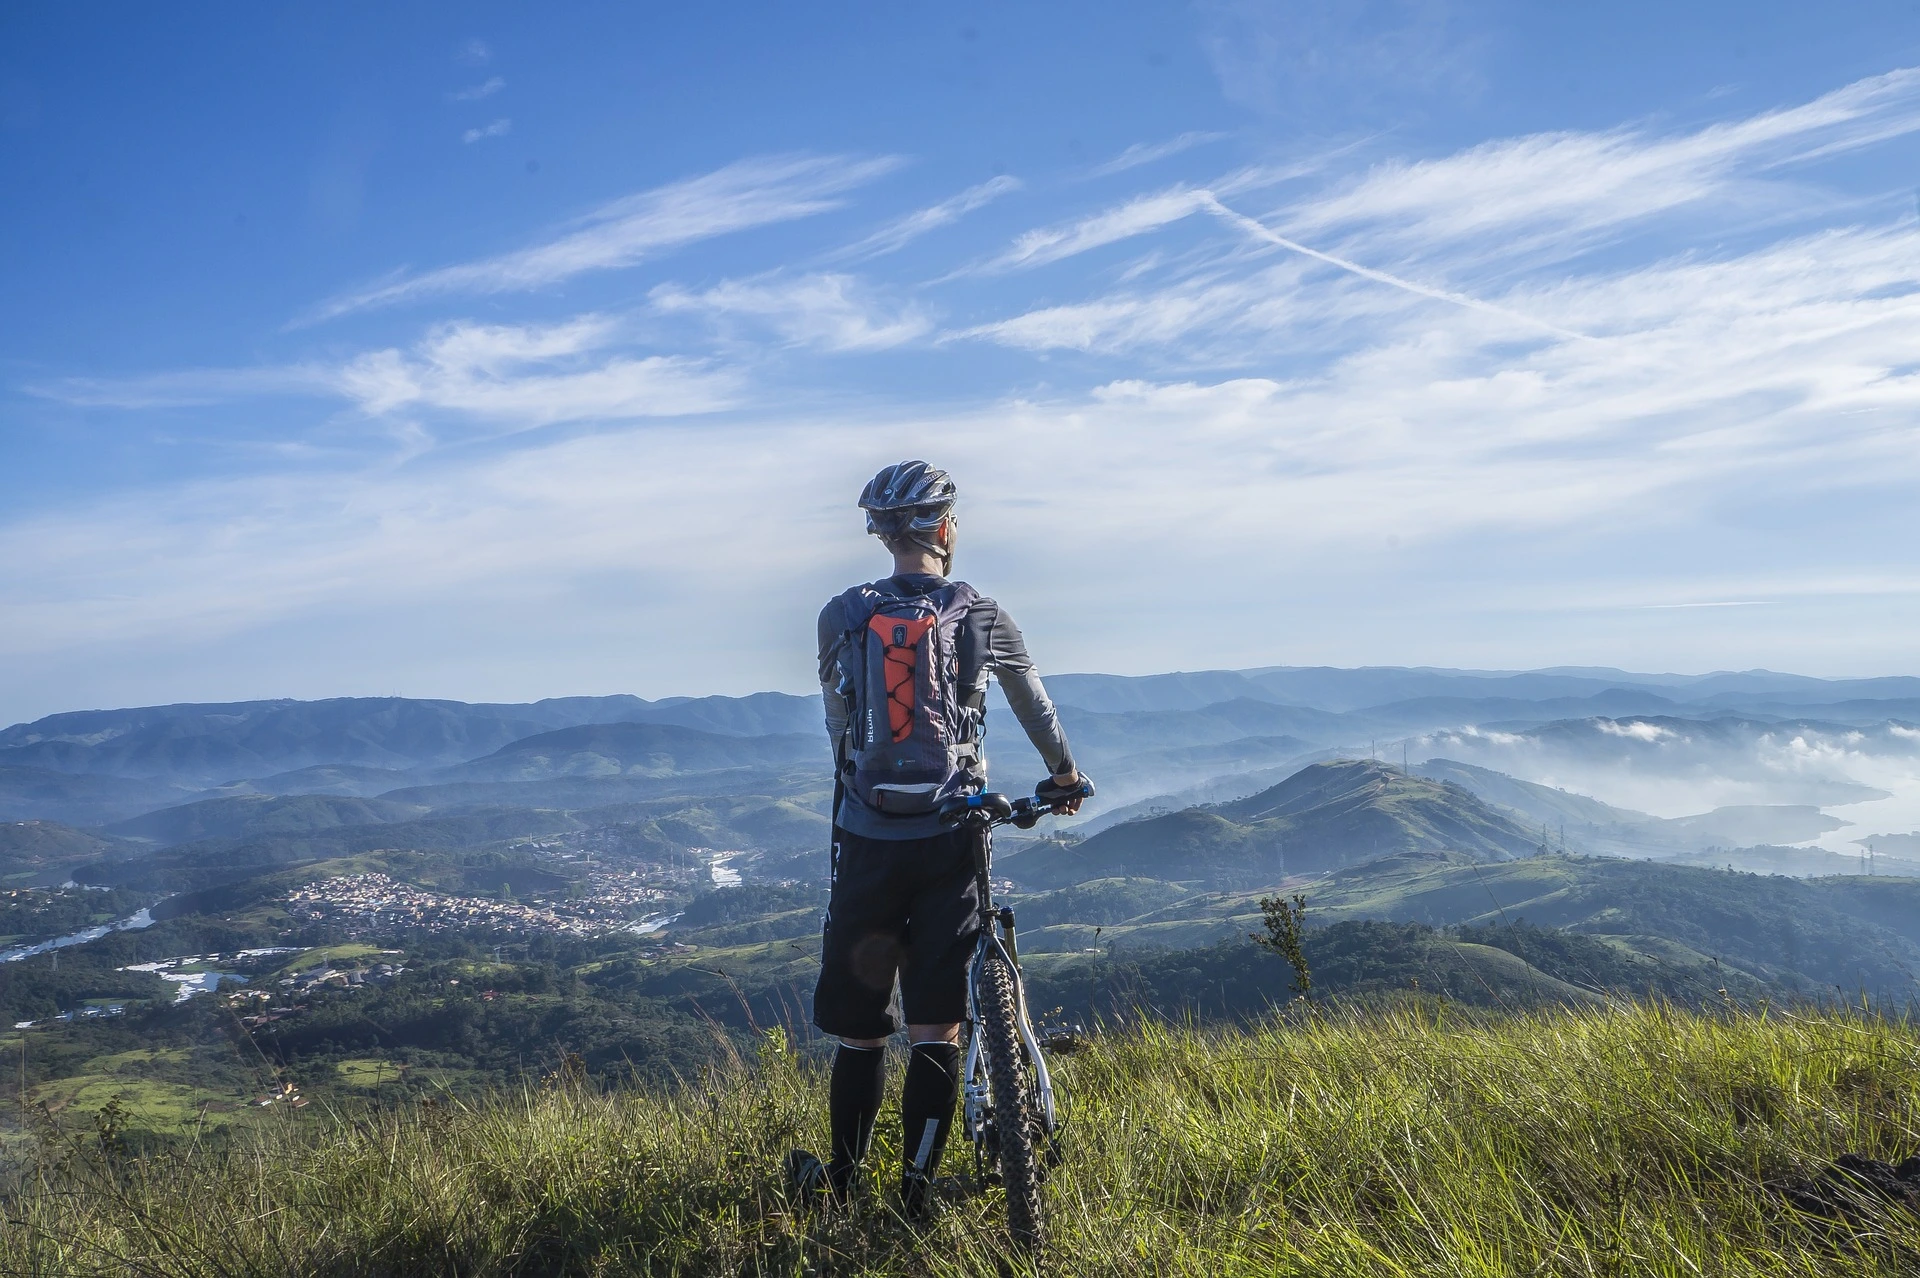
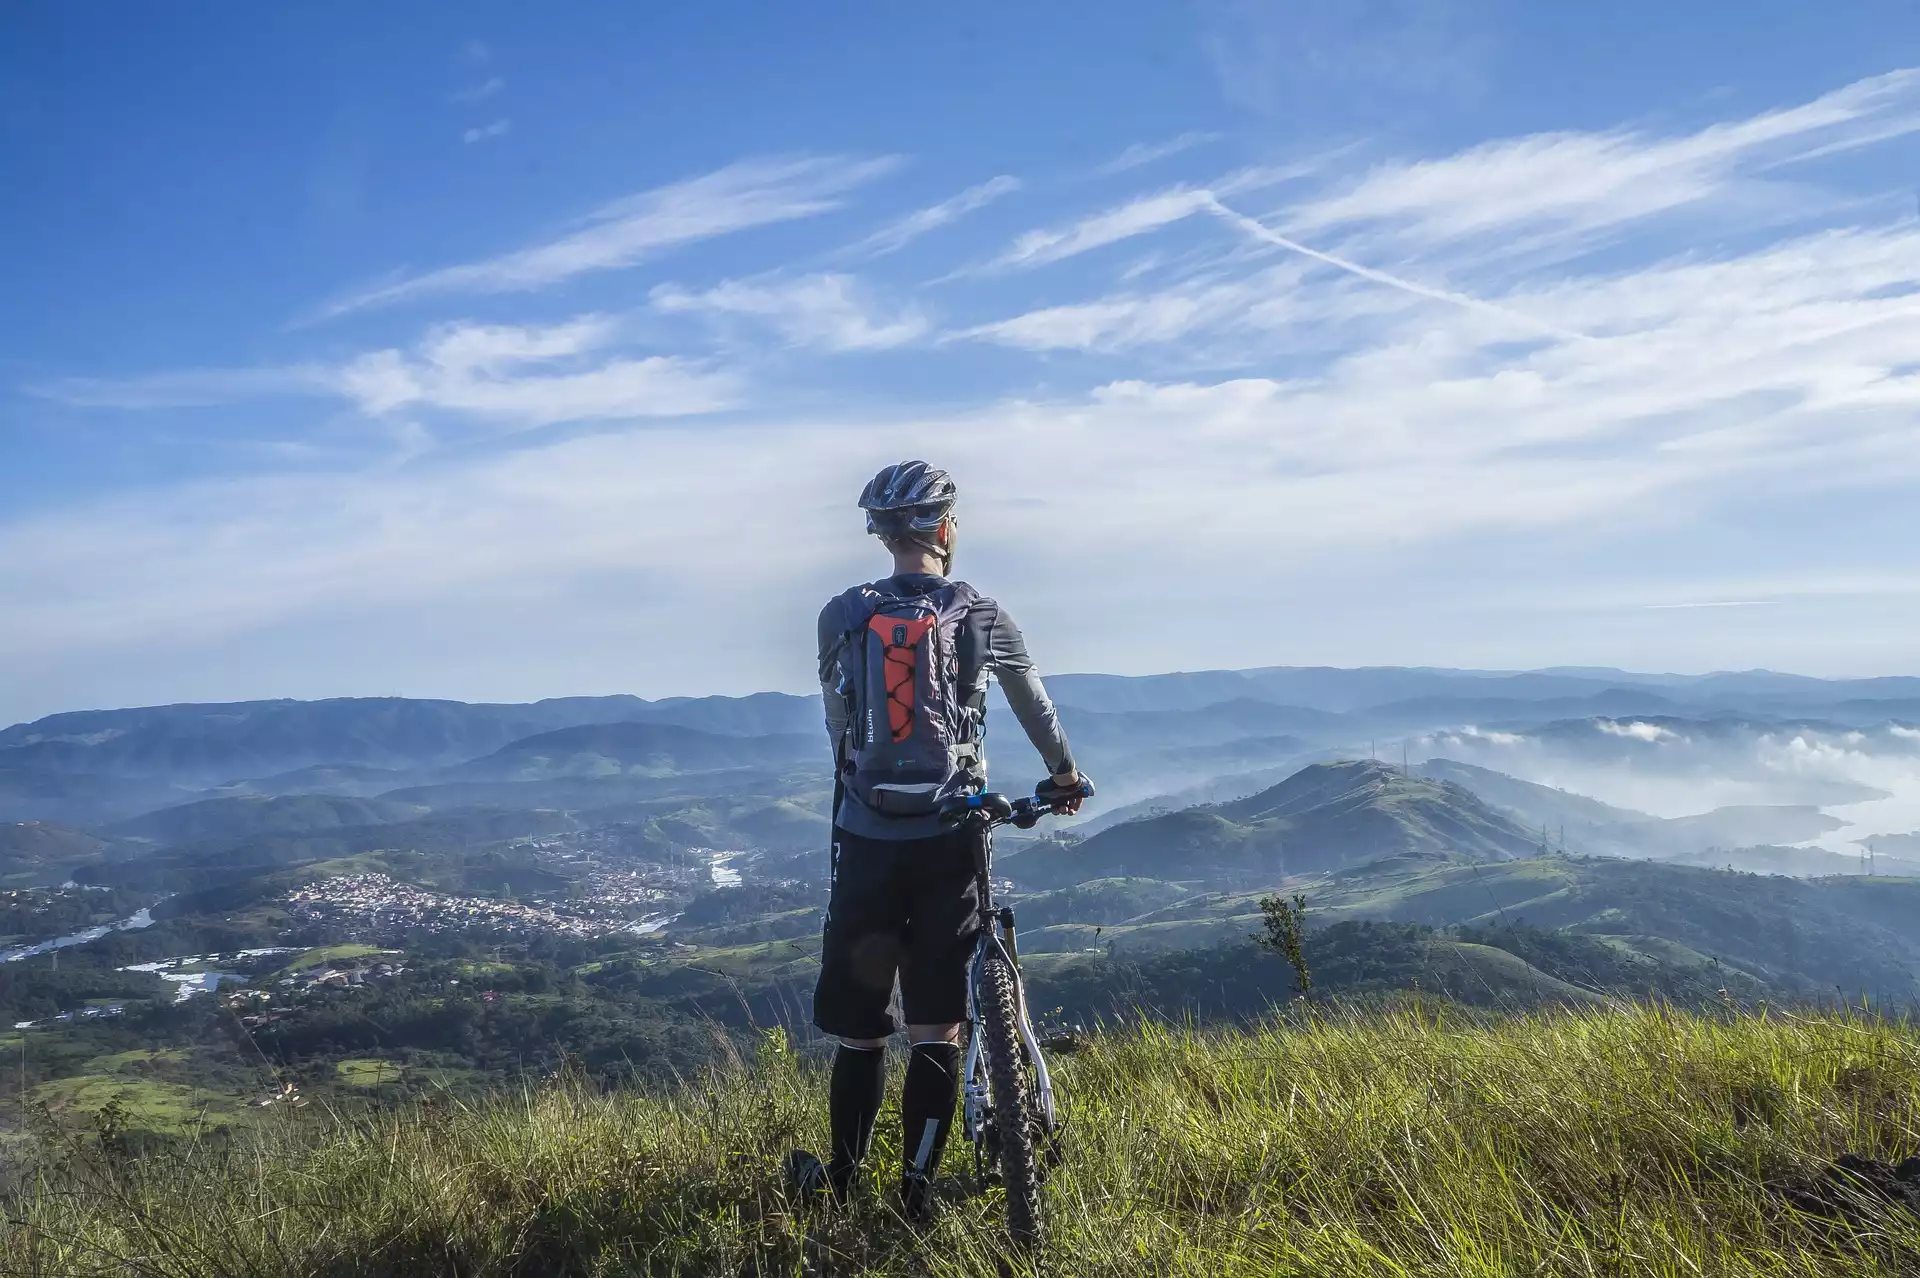
lcp fixing

diff --git a/index.html b/index.html
@@ -9,7 +9,7 @@
     />
     <meta name="theme-color" content="#f87123" />
     <title>
-      Equipement Vélo - Conseils Casques, Vêtements, Lunettes et Chaussures
+      Équipement Vélo - Conseils Casques, Vêtements, Lunettes et Chaussures
     </title>
     <link rel="icon" type="image/svg+xml" href="/velowheel.png" />
     <link rel="manifest" href="/manifest.json" />
@@ -20,6 +20,7 @@
       rel="stylesheet"
       defer
     />
+    <link rel="preload" href="src/assets/bannerimage.webp" as="image" />
     <meta
       name="description"
       content="Découvrez nos meilleurs conseils pour choisir casques, lunettes, vêtements et chaussures de vélo adaptés à votre style et à vos besoins."

diff --git a/src/router/index.jsx b/src/router/index.jsx
@@ -8,7 +8,6 @@ import { casquesRoute } from "../pages/casques/router";
 import { lunettesRoute } from "../pages/lunettes/router";
 import { chaussuresRoute } from "../pages/chaussures/router";
 import { vetementsRoute } from "../pages/vetements/router";
-
 import Mentions from "../pages/mentions";
 import Contact from "../pages/contact";
 import { adminRoute } from "../pages/admin/router";
